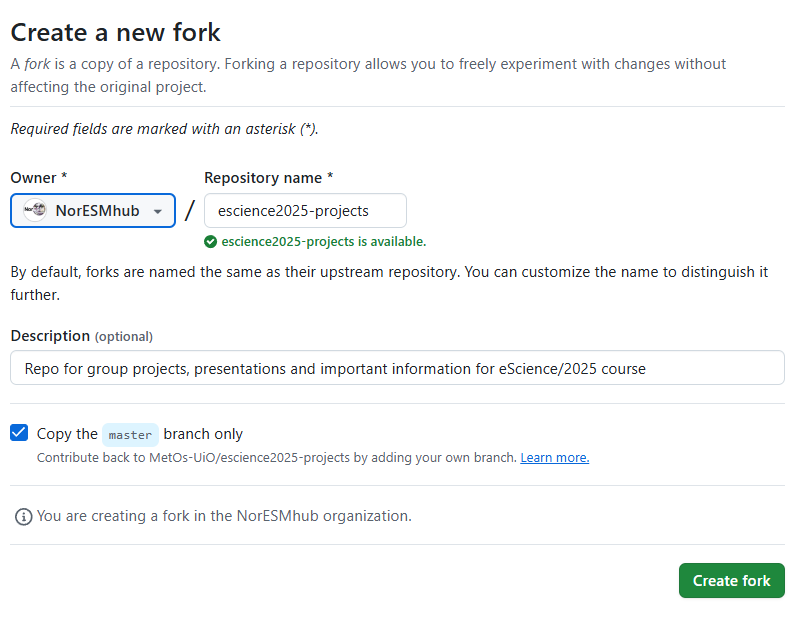
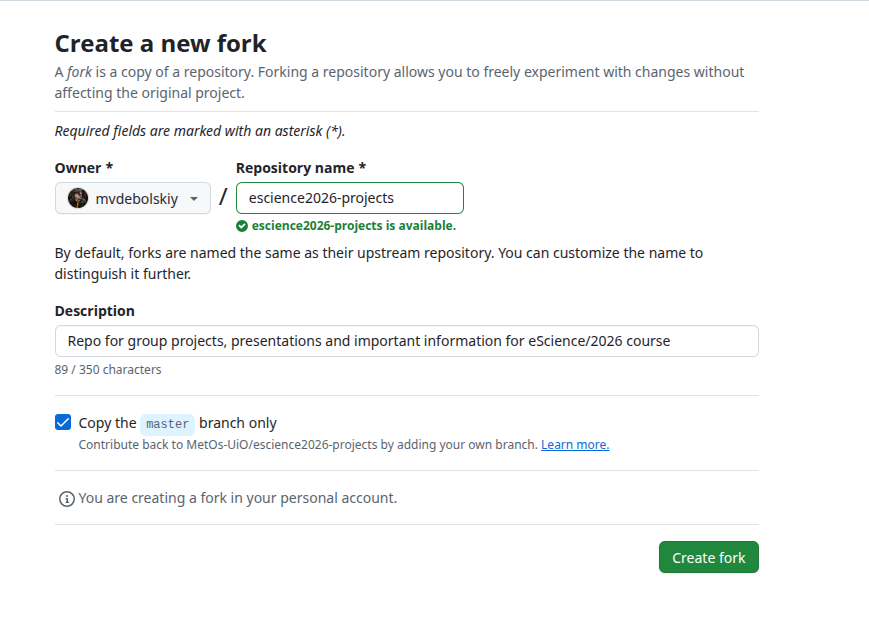
update dates

diff --git a/docs/course_workflow/workflow.rst b/docs/course_workflow/workflow.rst
@@ -7,9 +7,9 @@ Basic setup
 
 .. |fbutton| image:: img/fork_button.png
 
-Before you start working on your group projects. You should fork `eScience2026-projects repo <https://github.com/MetOs-UiO/eScience2026-projects>`_.
+Before you start working on your group projects. You should fork `escience2026-projects repo <https://github.com/MetOs-UiO/escience2026-projects>`_.
 To make a fork, go to the repo page. There you will see a ``fork`` button |fbutton|. Click on it to create a copy of this repository in your github user space.
-**Uncheck** ``Copy the main branch only`` if you do not want to miss on other branches currently on the original repo.
+**Uncheck** ``Copy the master branch only`` if you do not want to miss on other branches currently on the original repo.
 
 .. image:: img/fork-create.png
    :width: 700
@@ -59,27 +59,27 @@ There, you would need to clone your fork and create your first branch you would 
 
   .. code-block:: bash
 
-    git clone https://github.com/<your_username>/eScience2026-projects
+    git clone https://github.com/<your_username>/escience2026-projects
 
 - Go into your clone:
 
   .. code-block:: bash
 
-    cd eScience2026-projects
+    cd escience2026-projects
 
 - Add upstream repository (See :doc:`Setting up remotes <../git_integration/remotes>`):
      - to check if it's already added do ``git remote -v``
 
   .. code-block:: bash
 
-    git remote add upstream https://github.com/MetOs-UiO/eScience2026-projects
+    git remote add upstream https://github.com/MetOs-UiO/escience2026-projects
     git fetch --all
 
-- Make your first branch with a sensible name (what are you going to work on). Below you first checkout the current state of the upstream (the main repo, not your fork), and then add a branch (which will then be up to date with the main branch on the main repo) and switch to it, and finally you push your new local branch to the remote origin (which is your fork).
+- Make your first branch with a sensible name (what are you going to work on). Below you first checkout the current state of the upstream (the MetOs-UiO repo, not your fork), and then add a branch (which will then be up to date with the master branch on the MetOs-UiO repo) and switch to it, and finally you push your new local branch to the remote origin (which is your fork).
 
   .. code-block:: bash
 
-    git checkout upstream/main
+    git checkout upstream/master
     git switch -c <sensible-branch-name>
     git push origin <sensible-branch-name>
 
@@ -117,8 +117,8 @@ There, you would need to clone your fork and create your first branch you would 
 
 Within your fork, you should put all your code in your ``group#`` folder.
 
-When you need to share your work with the others within your group you need to make a :doc:`Pull Request <../git_integration/github-work>` to the `upstream repo <https://github.com/MetOs-UiO/eScience2025-projects>`_ ``main`` branch.
+When you need to share your work with the others within your group you need to make a :doc:`Pull Request <../git_integration/github-work>` to the `upstream repo <https://github.com/MetOs-UiO/ecience2025-projects>`_ ``master`` branch.
 
-After a Teaching assistant responsible for you group has merged your PR to ``upstream/main`` other members of your group can pull these changes into branches on their forks to work on.
+After a Teaching assistant responsible for you group has merged your PR to ``upstream/master`` other members of your group can pull these changes into branches on their forks to work on.
 
-In addition, you will most likely want to create new branches based on the updated ``upstream/main``. See :doc:`Setting up remotes <../git_integration/remotes>`.
+In addition, you will most likely want to create new branches based on the updated ``upstream/master``. See :doc:`Setting up remotes <../git_integration/remotes>`.

diff --git a/docs/git_integration/conflicts.rst b/docs/git_integration/conflicts.rst
@@ -82,7 +82,7 @@ The former will apply current (local) changes to the file, the latter will apply
     Doing ``git checkout --theirs/ours <path-to-file>`` is particularly useful in this case.
 
     If you have been executing/changing notebooks (f.e. notebook of someone else from another group) and have commited changes into your branch,
-    and are pulling/merging ``upstream/main``, you most likely will have conficts in those notebooks.
+    and are pulling/merging ``upstream/master``, you most likely will have conficts in those notebooks.
     Just do ``git checkout --theirs <path-to-file>`` and it will stay the same way it is on the remote. For your own notebooks, if you are happy with your local changes, do ``git checkout --ours <path-to-file>``.
 
 After all changes are resolved. You should add all the files with  f.e. ``git add --all`` and do a commit with ``git commit`` to finish the merge/rebase.

diff --git a/docs/course_workflow/rules.rst b/docs/course_workflow/rules.rst
@@ -3,7 +3,7 @@ Basic Rules for the course
 
 
 
-  #. Write your scripts/notebooks into the clone of your eScience2026-projects fork.
+  #. Write your scripts/notebooks into the clone of your escience2026-projects fork.
   #. Work in your ``Group#`` subfolder in the clone (or even a subsubfolder for your work, one level deeper) to reduce number of potential conflicts when merging.
   #. If there are files that are automatically created in that folder that should not be tracked, update `.gitignore`
   #. Do not store data in that folder unless it is \< 10 Mb. See :doc:`Sharing Data <./data>`.

diff --git a/docs/course_workflow/data.rst b/docs/course_workflow/data.rst
@@ -1,7 +1,7 @@
 Sharing data
 ============
 
-Small size data (\<10 Mb) can be shared directly through the `eScience2026-projects repo <https://github.com/MetOs-UiO/eScience2026-projects>`_.
+Small size data (\<10 Mb) can be shared directly through the `escience2026-projects repo <https://github.com/MetOs-UiO/escience2026-projects>`_.
 
 Larger data will be put into read-only ``~/shared-clinfra-ns12127k-ns9252k/escience2026/data/`` by request (ask @mvdebolsiy to copy it there).
 
